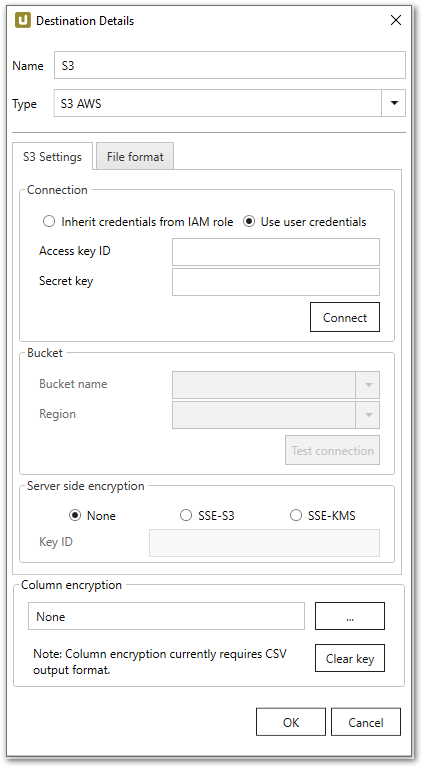
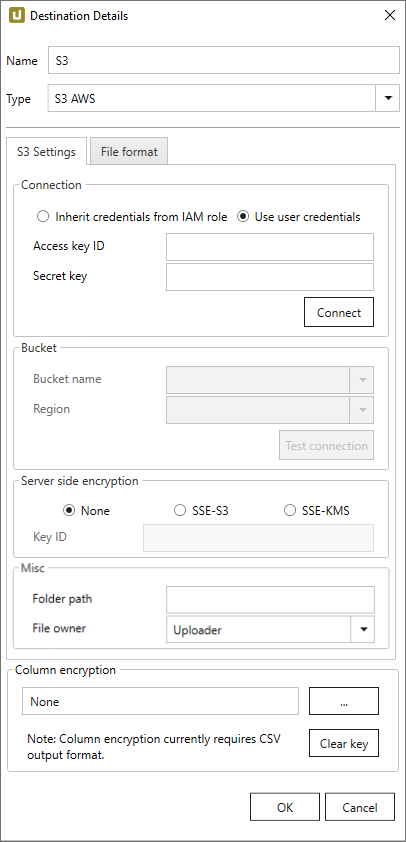
XU: AWS-S3 destination - new connection setting

diff --git a/content/_de/xtract-universal/destinationen/amazon_aws_s3/verbindung.md b/content/_de/xtract-universal/destinationen/amazon_aws_s3/verbindung.md
@@ -42,6 +42,7 @@ Wählen Sie einen Bucket und die diesem Bucket zugehörige Region aus. In diesen
 **Test Connection**<br>
 Prüft, ob die Kombination aus Bucket und Region korrekt ist und ob der Bucket von Xtract Universal aus mit den eingegebenen Access Keys beschreibbar ist.
 
+
 #### Server-side encryption
 
 Wählen Sie, wie die Daten nach dem Hochladen in S3 verschlüsselt werden sollen.<br>
@@ -60,6 +61,17 @@ Verschlüsselt die Datei [serverseitig](https://docs.aws.amazon.com/AmazonS3/lat
 
 - **SSE-KMS und Key ID**
    Verschlüsselung über einen AWS-seitig benutzerdefinierten Schlüssel ([AWS Key Management Services](https://docs.aws.amazon.com/AmazonS3/latest/dev/UsingKMSEncryption.html)). Der Schlüssel kann auf der [AWS-Webseite](httpshttps://console.aws.amazon.com/iam/home#/encryptionKeys/) angelegt werden.
+
+#### Misc
+
+Alle Einstellungen in *Misc* sind optional.
+
+**Folder Path**<br>
+Geben Sie den Pfad ein, in dem Dateien hochgeladen werden.
+
+**File Owner**<br>
+Wenn man als AWS User eines Accounts A in den Bucket eines Accounts B hochladen möchte, kann man die Option "Bucket Owner" auswählen.
+Ohne Owner können hochgeladene Dateien nicht ohne Weiteres geöffnet werden.
 
 
 ### File Format

diff --git a/content/_en/xtract-universal/destinations/amazon-aws-s3/connection.md b/content/_en/xtract-universal/destinations/amazon-aws-s3/connection.md
@@ -42,6 +42,7 @@ Select a bucket and a region of the bucket's location. The SAP data is extracted
 **Test Connection**<br>
 Validates the right combination of bucket and region. Insures bucket's accessibility from Xtract Universal using the entered access keys.
 
+
 #### Server-side encryption
 
 Choose how to encrypt data after uploading them to S3.<br>
@@ -58,6 +59,16 @@ Encrypts data using the by default available S3 user account encryption key ([S3
 - **SSE-KMS und Key ID**<br>
 Encryption using a custom encryption key created on AWS ([AWS Key Management Services](https://docs.aws.amazon.com/AmazonS3/latest/dev/UsingKMSEncryption.html)). The key can be created on the [AWS website](https://console.aws.amazon.com/iam/home#/encryptionKeys/.)
 
+#### Misc
+
+All settings in *Misc* are optional.
+
+**Folder Path**<br>
+Enter the directory to upload files into.
+
+**File Owner**<br>
+If you upload files as an AWS user of an Account A to an Account B, you can select the option "Bucket Owner".
+Without a declared owner, uploaded files cannot be opened directly.
 
 ### File Format
 
